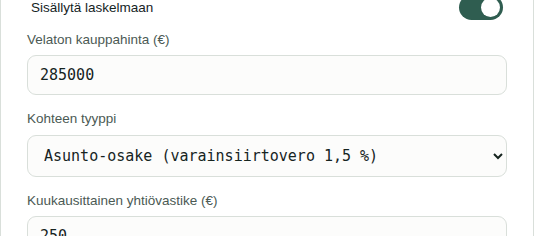
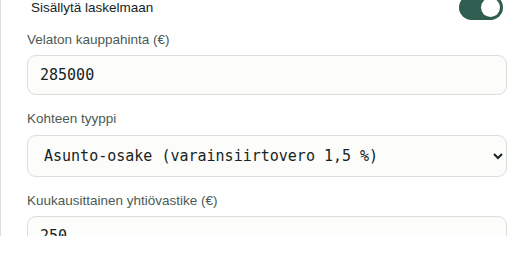
Korjataan Miten toimii -osion sekavuus: haamunumerot eivät enää törmää selainikkunan pisteisiin (absoluuttinen sijoittelu taustalle), kaikki kolme kuvaa yhtenäistetty täsmälleen samaan 520x260-kokoon, nuolet vahvistettu pyöreiksi merkeiksi.

diff --git a/styles.css b/styles.css
@@ -1171,25 +1171,36 @@ details.lisaasetukset .lisaasetukset-sisalto { margin-top: 16px; }
   display: flex;
   flex-direction: column;
   position: relative;
+  padding-top: 46px;
 }
 
 .miten-nuoli {
   flex-shrink: 0;
+  display: flex;
+  align-items: center;
+  justify-content: center;
+  width: 32px;
+  height: 32px;
+  margin-top: 138px;
+  border-radius: 50%;
+  background: rgba(255,107,53,0.16);
   color: var(--koralli);
-  font-size: 22px;
-  padding-top: 90px;
-  opacity: 0.7;
+  font-size: 16px;
+  font-weight: 700;
 }
 
 .miten-ghost-numero {
+  position: absolute;
+  top: -8px;
+  left: -6px;
   font-family: 'IBM Plex Mono', monospace;
   font-weight: 600;
-  font-size: 56px;
-  color: rgba(255,255,255,0.10);
+  font-size: 84px;
+  color: rgba(255,255,255,0.09);
   line-height: 1;
-  margin-bottom: -34px;
-  position: relative;
   z-index: 0;
+  pointer-events: none;
+  user-select: none;
 }
 
 .miten-mockup {
@@ -1197,9 +1208,10 @@ details.lisaasetukset .lisaasetukset-sisalto { margin-top: 16px; }
   z-index: 1;
   border-radius: 10px;
   overflow: hidden;
-  box-shadow: 0 20px 40px -16px rgba(0,0,0,0.5);
+  box-shadow: 0 22px 45px -16px rgba(0,0,0,0.55);
   background: #fff;
-  margin-bottom: 18px;
+  margin-bottom: 20px;
+  border: 1px solid rgba(255,255,255,0.08);
 }
 .miten-chrome {
   background: #E8EBE9;
